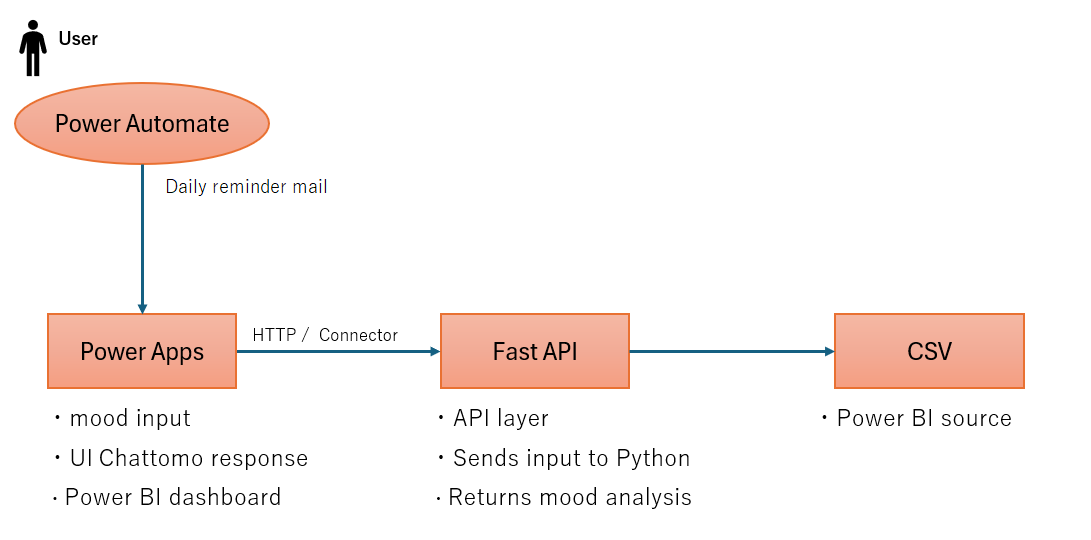
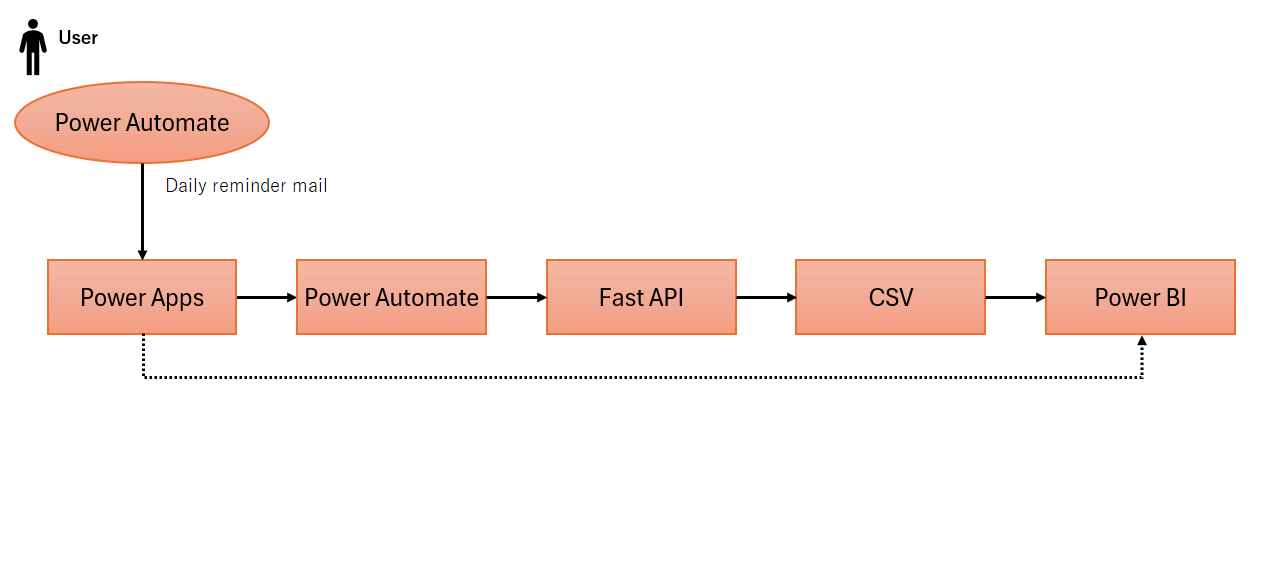
update

diff --git a/README.md b/README.md
@@ -37,28 +37,34 @@ The Chattomo Mini ecosystem is built using a lightweight but fully functional ar
 
 **Flow:**
 
-1. **Power Automate**  
-   - Sends daily reminder emails for mood input
+1. **Power Automate (Reminder)**  
+   - Sends daily reminder emails to encourage mood input
 
 
 2. **Power Apps**  
-   - Mood input UI  
-   - Displays Chattomo responses  
-   - Shows a Power BI dashboard
+   - Provides the mood input UI  
+   - Displays responses returned from Chattomo  
+   - Allows users to view Power BI dashboards (optional)
 
 
-3. **FastAPI**  
-   - Acts as API gateway  
-   - Sends user input to the Python emotion engine  
-   - Returns mood score + analysis
+3. **Power Automate (Orchestration)**  
+   - Receives input from Power Apps  
+   - Sends HTTP requests to the FastAPI backend  
+   - Returns analysis results back to Power Apps
 
 
-4. **CSV Storage**  
-   - Stores logs  
-   - Serves as data source for Power BI
+4. **FastAPI (Python Backend)**  
+   - Acts as the API layer  
+   - Processes mood input using Python logic  
+   - Returns mood label, mood score, and response text
 
 
-5. **Power BI**  
+5. **CSV Storage**  
+   - Stores mood logs  
+   - Serves as the data source for Power BI
+
+
+6. **Power BI**  
    - Visualizes moods and emotional trends
 
 ---
